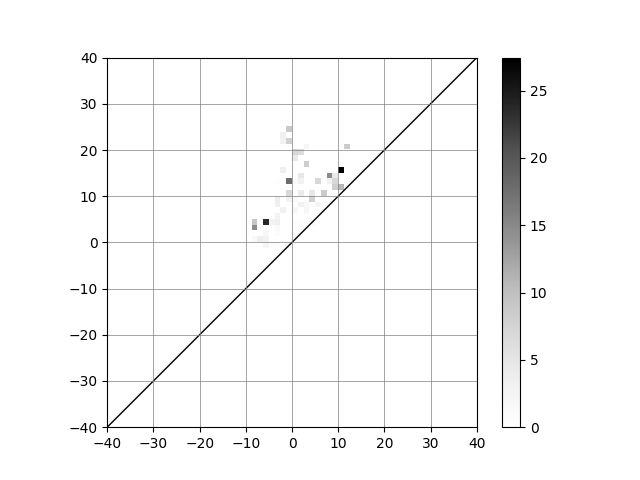
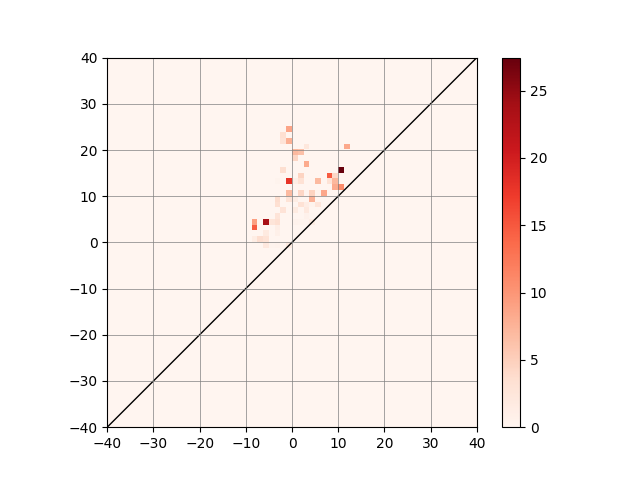
update

Changed region(s): [[0.7812, 0.125, 0.8125, 0.8438], [0.375, 0.25, 0.5312, 0.5]]

diff --git a/reverse.py b/reverse.py
@@ -20,65 +20,65 @@ condition = "1800_3h_500x"
 images = glob.glob("/Users/takigawaatsushi/Documents/研究室/研究/ph_analysis/for_reverse/"+condition+"/images/*.png")
 images.sort()
 
-# print("ph解析開始")
+print("ph解析開始")
 
-# pdnames = []
-# for png_path in images:
-#     print(png_path)
+pdnames = []
+for png_path in images:
+    print(png_path)
 
-#     pict = imageio.v3.imread(png_path, mode="L")
+    pict = imageio.v3.imread(png_path, mode="L")
 
-#     # 大津の方法
-#     arg_r_min_picked = threshold_multiotsu(pict)
+    # 大津の方法
+    arg_r_min_picked = threshold_multiotsu(pict)
 
-#     # 2値化
-#     # pict_tic = pict > arg_r_min_picked[0]
-#     # pict_t2 = (arg_r_min_picked[0] >= pict) | (pict >= arg_r_min_picked[1])
-#     pict_moss = arg_r_min_picked[1] > pict
+    # 2値化
+    # pict_tic = pict > arg_r_min_picked[0]
+    # pict_t2 = (arg_r_min_picked[0] >= pict) | (pict >= arg_r_min_picked[1])
+    pict_moss = arg_r_min_picked[1] > pict
 
-#     # hc.BitmapPHTrees.for_bitmap_levelset(hc.distance_transform(pict_tic, signed=True))
-#     # hc.BitmapPHTrees.for_bitmap_levelset(hc.distance_transform(pict_t2, signed=True))
-#     pd = hc.BitmapPHTrees.for_bitmap_levelset(hc.distance_transform(pict_moss, signed=True))
-#     pdnames.append(pd)
+    # hc.BitmapPHTrees.for_bitmap_levelset(hc.distance_transform(pict_tic, signed=True))
+    # hc.BitmapPHTrees.for_bitmap_levelset(hc.distance_transform(pict_t2, signed=True))
+    pd = hc.BitmapPHTrees.for_bitmap_levelset(hc.distance_transform(pict_moss, signed=True))
+    pdnames.append(pd)
 
 # print("ph解析終了")
 
 
-print("係数取得開始")
+# print("係数取得開始")
 
-model = 'model_reg.sav'
-lss = pickle.load(open(model, 'rb'))
+# model = 'model_reg.sav'
+# lss = pickle.load(open(model, 'rb'))
 
-count = 0
-effective_coef_dict = {}
-for i in range(64):
-    for j in range(i+1):
-        count += 1
-        if lss.coef_[count-1] != 0:
-            # print(count, "は", i+1, "行目, ", j+1, "列目で、値は", lss.coef_[count-1])
+# count = 0
+# effective_coef_dict = {}
+# for i in range(64):
+#     for j in range(i+1):
+#         count += 1
+#         if lss.coef_[count-1] != 0:
+#             # print(count, "は", i+1, "行目, ", j+1, "列目で、値は", lss.coef_[count-1])
 
-            x    = pd_range[0]+(pd_range[1]-pd_range[0])/bins*j
-            y    = pd_range[0]+(pd_range[1]-pd_range[0])/bins*i
-            x_dx = pd_range[0]+(pd_range[1]-pd_range[0])/bins*(j+1)
-            y_dy = pd_range[0]+(pd_range[1]-pd_range[0])/bins*(i+1)
+#             x    = pd_range[0]+(pd_range[1]-pd_range[0])/bins*j
+#             y    = pd_range[0]+(pd_range[1]-pd_range[0])/bins*i
+#             x_dx = pd_range[0]+(pd_range[1]-pd_range[0])/bins*(j+1)
+#             y_dy = pd_range[0]+(pd_range[1]-pd_range[0])/bins*(i+1)
 
-            effective_coef_dict[(x, y, x_dx, y_dy)] = lss.coef_[count-1]
+#             effective_coef_dict[(x, y, x_dx, y_dy)] = lss.coef_[count-1]
 
-effective_coef_list = sorted(effective_coef_dict.items(), key = lambda coef : abs(coef[1]), reverse=True)
-print(effective_coef_list)
+# effective_coef_list = sorted(effective_coef_dict.items(), key = lambda coef : abs(coef[1]), reverse=True)
+# print(effective_coef_list)
 
-print("係数取得終了")
+# print("係数取得終了")
 
-# print("逆解析開始")
+print("逆解析開始")
 
-# # PH解析の結果を取得
-# phtrees_list = [pdname.bitmap_phtrees(dimension) for pdname in pdnames]
-# nodes_list = [phtrees.pair_nodes_in_rectangle(-1.25, 17.5, 0.0, 16.25) for phtrees in phtrees_list]
+# PH解析の結果を取得
+phtrees_list = [pdname.bitmap_phtrees(dimension) for pdname in pdnames]
+nodes_list = [phtrees.pair_nodes_in_rectangle(-1.25, 12.5, 0.0, 13.75) for phtrees in phtrees_list]
 
-# for i, image in enumerate(images):
-#     image_name = os.path.splitext(os.path.basename(image))[0]
-#     nodes = nodes_list[i]
-#     reverse = hc.draw_volumes_on_2d_image(nodes, image, color=(255, 0, 0), alpha=0.5, birth_position=(0, 255, 0))
+for i, image in enumerate(images):
+    image_name = os.path.splitext(os.path.basename(image))[0]
+    nodes = nodes_list[i]
+    reverse = hc.draw_volumes_on_2d_image(nodes, image, color=(255, 0, 0), alpha=0.5, birth_position=(0, 255, 0))
 
-#     reverse.save("for_reverse/output/"+condition+"/"+phase+"/"+image_name+"_reverse.png")
-#     print("for_reverse/output/"+condition+"/"+phase+"/"+image_name+"_reverse.png")
+    reverse.save("for_reverse/output/"+condition+"/"+phase+"/"+image_name+"_reverse.png")
+    print("for_reverse/output/"+condition+"/"+phase+"/"+image_name+"_reverse.png")

diff --git a/classification.py b/classification.py
@@ -22,9 +22,17 @@ labels = np.array(
 
 phase = "moss"
 dimension = 1
-range = (-40, 40)
+pd_range = (-40, 40)
 sigma = 1
-weight = ("atan", 0.01, 10)
+weight = ("atan", 0.01, 2)
+
+diagonal = []
+for i in range(64):
+    if i == 0:
+        diagonal.append(i)
+    else:
+        x = diagonal[i-1] + i + 1
+        diagonal.append(x)
 
 
 pdnames = glob.glob("/Users/takigawaatsushi/Documents/研究室/研究/ph_analysis/for_vec/pdgm_"+phase+"/*.pdgm")
@@ -37,8 +45,15 @@ for pdname in pdnames:
 pds = [hc.PDList(pdname).dth_diagram(dimension) for pdname in pdnames]
 
 # ベクトル化
-spec = hc.PIVectorizeSpec(range, 64, sigma = sigma, weight = weight)
+spec = hc.PIVectorizeSpec(pd_range, 64, sigma = sigma, weight = weight)
 pdvects = np.vstack([spec.vectorize(pd) for pd in pds])
+
+# # 対角成分を削る
+# for pdvect in pdvects:
+#     for i in diagonal:
+#         pdvect[i] = 0
+#         pdvect[i-1] = 0
+
 
 # 正規化
 print('pdvects (min, max) : (', pdvects.min(), ', ', pdvects.max(), ')')
@@ -94,9 +109,8 @@ ax.scatter(x[labels == 4], y[labels == 4], z[labels == 4], s = 20, c = "y")
 ax.scatter(x[labels == 5], y[labels == 5], z[labels == 5], s = 20, c = "g")
 ax.scatter(x[labels == 6], y[labels == 6], z[labels == 6], s = 20, c = "c")
 
-# ax.legend(['As Cast', '1600d1d', '1600d3d', '1600d3h', '1700d3h', '1800d3h'])
-
-plt.show()
+ax.legend(['As Cast', '1600d1d', '1600d3d', '1600d3h', '1700d3h', '1800d3h'])
 
 # 出力
-plt.savefig("classification_" + phase + "_" + dimension + "_" + range[0] + "_" + range[1] + "_" + sigma + "_" + weight[0] + "_" + weight[1] + "_" + weight[2] + ".png")
+# plt.show()
+plt.savefig("classification_" + phase + str(dimension) + ".png")

diff --git a/coef_cmap.py b/coef_cmap.py
@@ -1,5 +1,3 @@
-# https://helve-blog.com/posts/python/sklearn-lasso-regression/
-
 import matplotlib.pyplot as plt
 import pickle
 import numpy as np
@@ -51,7 +49,7 @@ print("描画開始")
 
 # Xmin, Xmax, Ymin, Ymax
 extent = (-40, 40, -40, 40)
-plt.imshow(ZZ, cmap="Greys", extent=extent)
+plt.imshow(ZZ, cmap="Reds", extent=extent)
 
 # 斜線
 plt.plot([-40, 40],[-40, 40],color='black',linewidth=1)

diff --git a/vec2PD.py b/vec2PD.py
@@ -16,7 +16,7 @@ for i in range(64):
         diagonal.append(x)
 
 
-pdname = "/Users/takigawaatsushi/Documents/研究室/研究/ph_analysis/for_vec/pdgm_moss/1600c3h_500x_002-pd_moss.pdgm"
+pdname = "/Users/takigawaatsushi/Documents/研究室/研究/ph_analysis/for_vec/pdgm_moss/1700c3h_500x_001-pd_moss.pdgm"
 print(pdname)
 
 # PH解析の結果を取得

diff --git a/README.md b/README.md
@@ -32,12 +32,14 @@ $ source ./venv/bin/activate
 
 # 実行手順
 1. bmp_to_png.pyでpng画像を生成
-2. binary_image.pyで2値化画像を確認
-3. histogram_3phase.pyでヒスグラムを確認
-4. ph_for_vec.pyでph解析を実行
-5. pd_image.pyでPDを表示
-6. for_vecにpdgmファイルを入れ、classification.pyでベクトル化、分類
-7. learning_reg.pyで機械学習
-8. coef_cmap.pyで係数確認
-9. pca2PD.pyで主成分が示す領域を確認
-10. reverse.pyで逆解析
+2. dataにpng画像を保存
+3. binary_image.pyで2値化画像を確認
+4. histogram_3phase.pyでヒスグラムを確認
+5. ph_for_vec.pyでph解析を実行
+6. pd_image.pyでPDを表示
+7. for_vecにpdgmファイルを入れ、classification.pyでベクトル化、分類
+8. learning_reg.pyで機械学習
+9. coef_cmap.pyで係数確認
+10. pca2PD.pyで主成分が示す領域を確認
+11. for_reverseに逆解析したい画像を追加
+12. reverse.pyで逆解析
